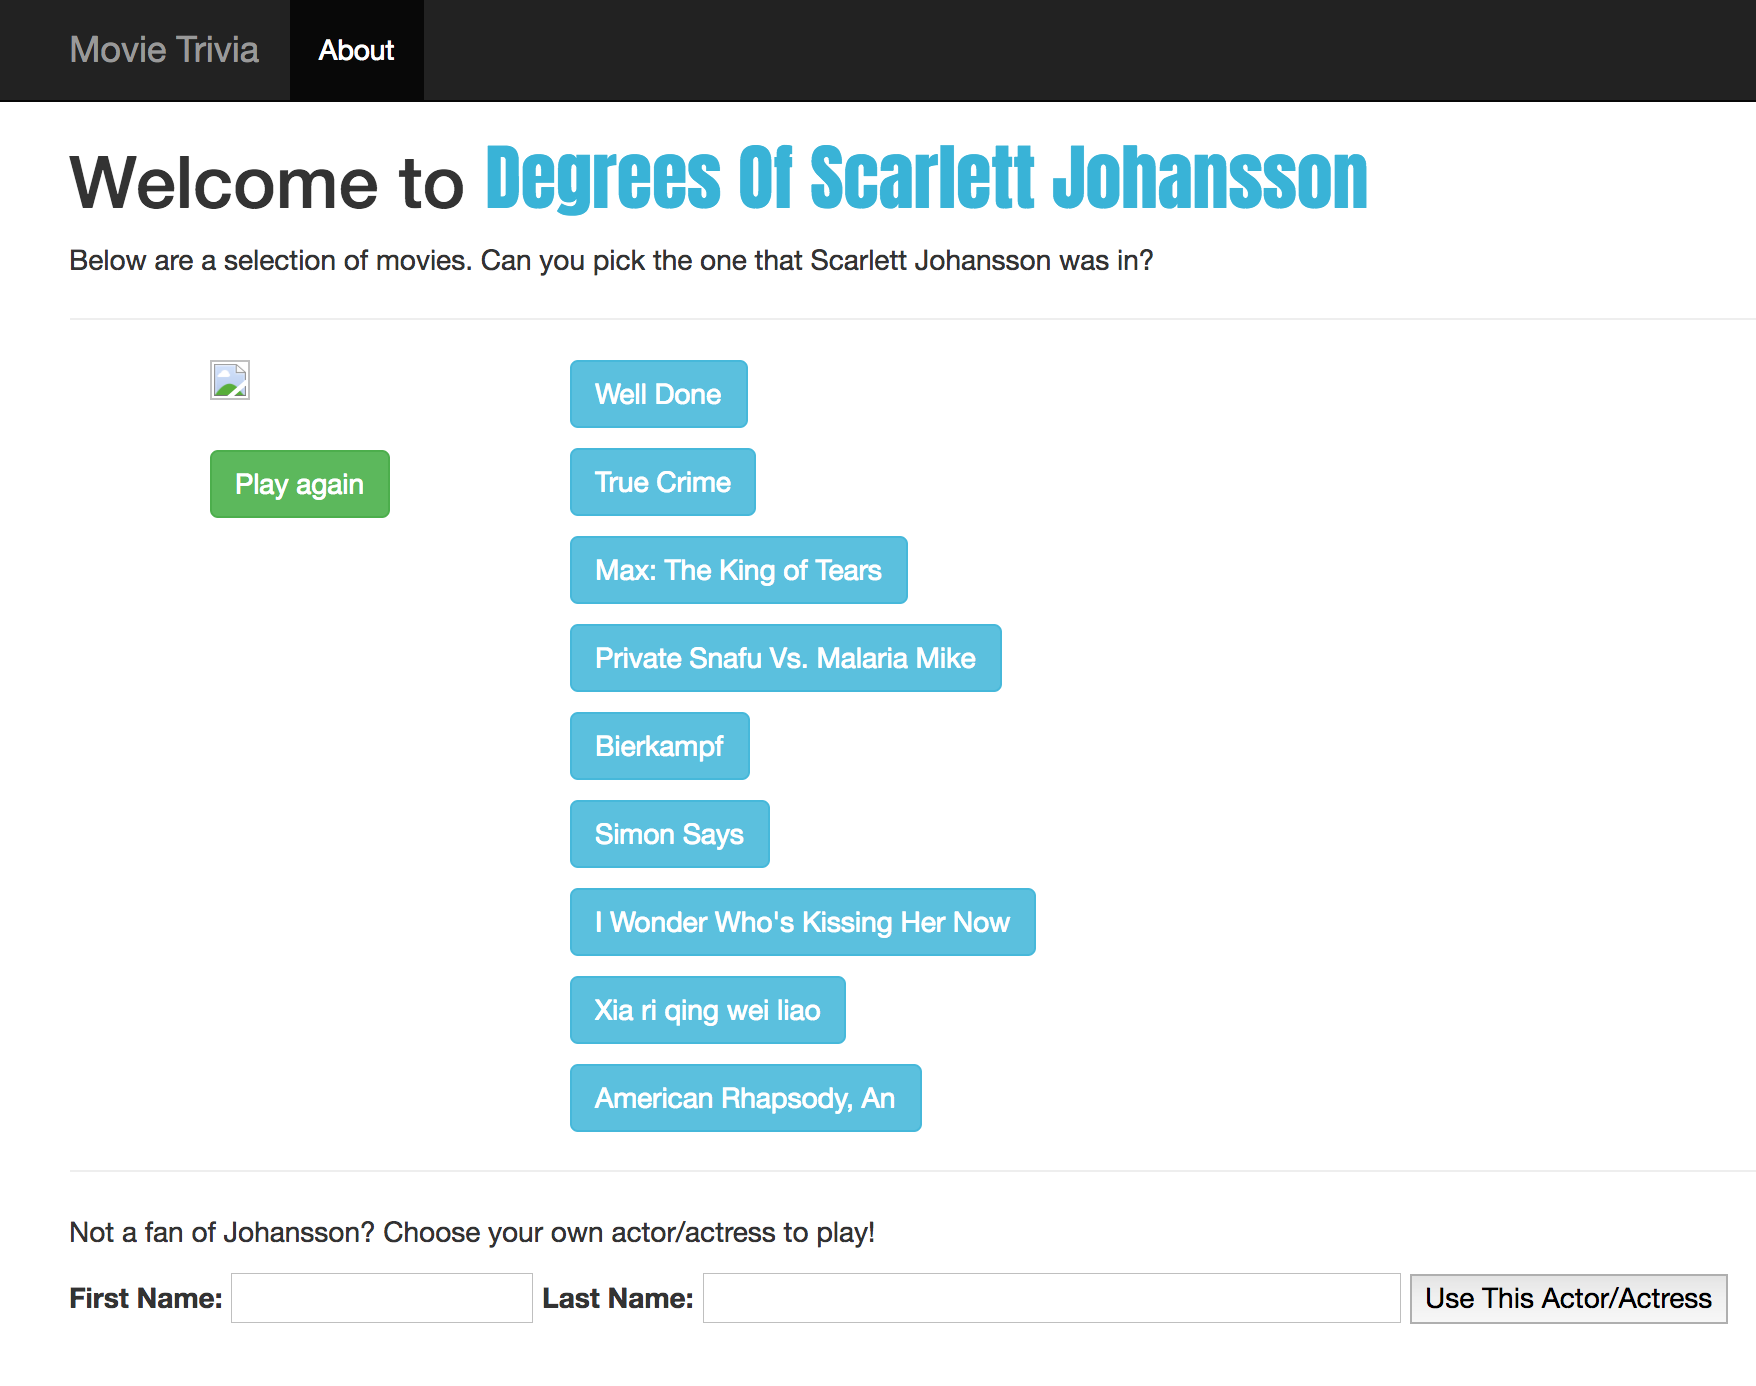
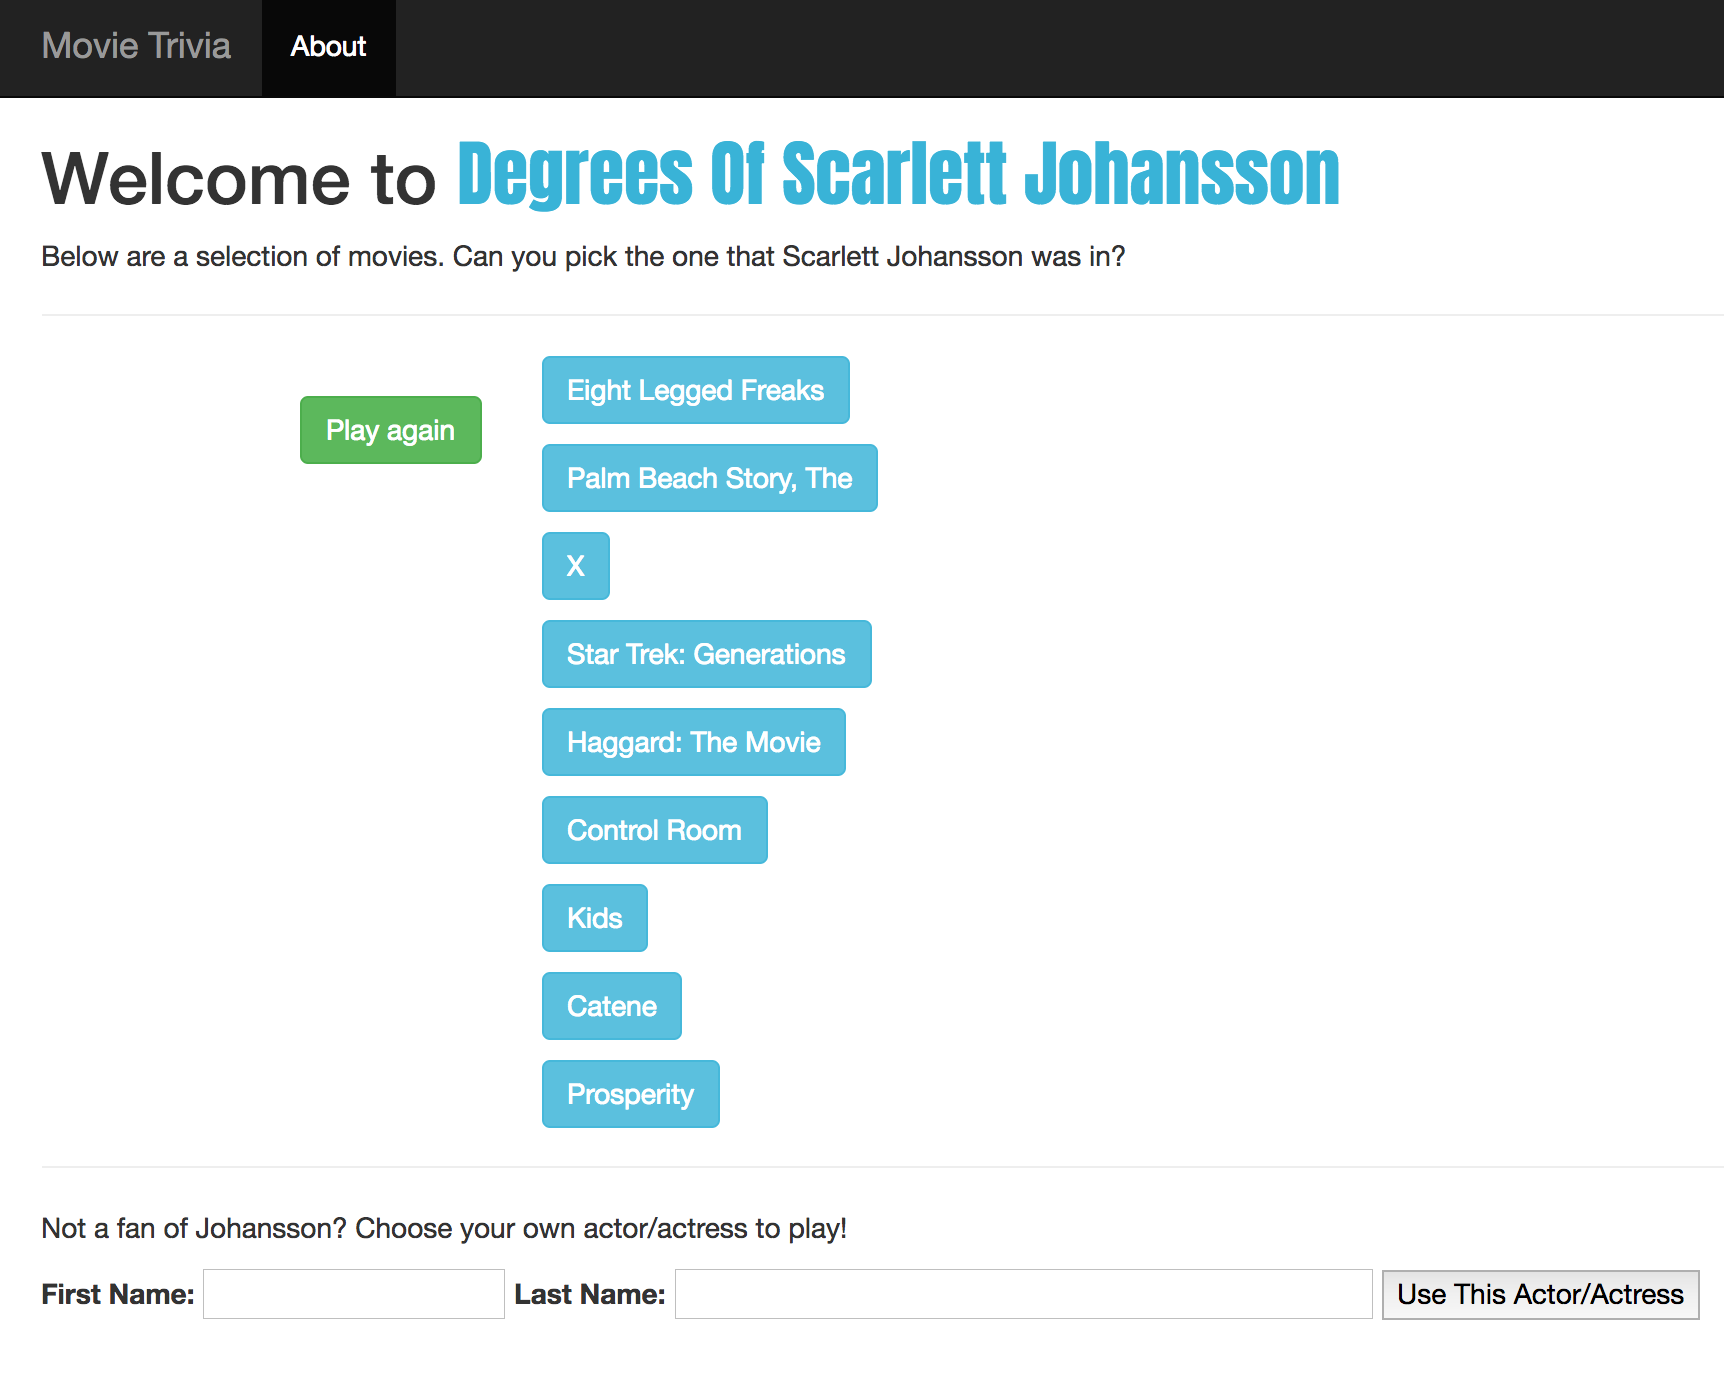
removed image if actor is not kevin bacon

diff --git a/views/index.html b/views/index.html
@@ -11,10 +11,7 @@
       <div class="float-right">
         {% if actorFname === 'Kevin' and actorLname === 'Bacon' %}
         <img src="https://lh5.googleusercontent.com/-u24Tzn7oJtw/AAAAAAAAAAI/AAAAAAAACR8/28jCoiombPQ/s0-c-k-no-ns/photo.jpg" class="photo" /><br>
-        <!--{% else %}
-        <img src="https://www.googleapis.com/customsearch/v1?key=AIzaSyB2i4MYIR0TjIjR4RvKPYveUUc6jItUsj8&cx=003191283824511420709:iee0094tsri&q={{actorFname}}%20{{actorLname}}" class="photo" /><br>
-        {% endif %}-->
-        <!--<img src="http://imgur.com/a/CfYFy" class="photo"><br>-->
+        {% endif %}
         <br/>
         <form action="/" method="POST">
           <input type="hidden" name="fname" value="{{actorFname}}"/>
